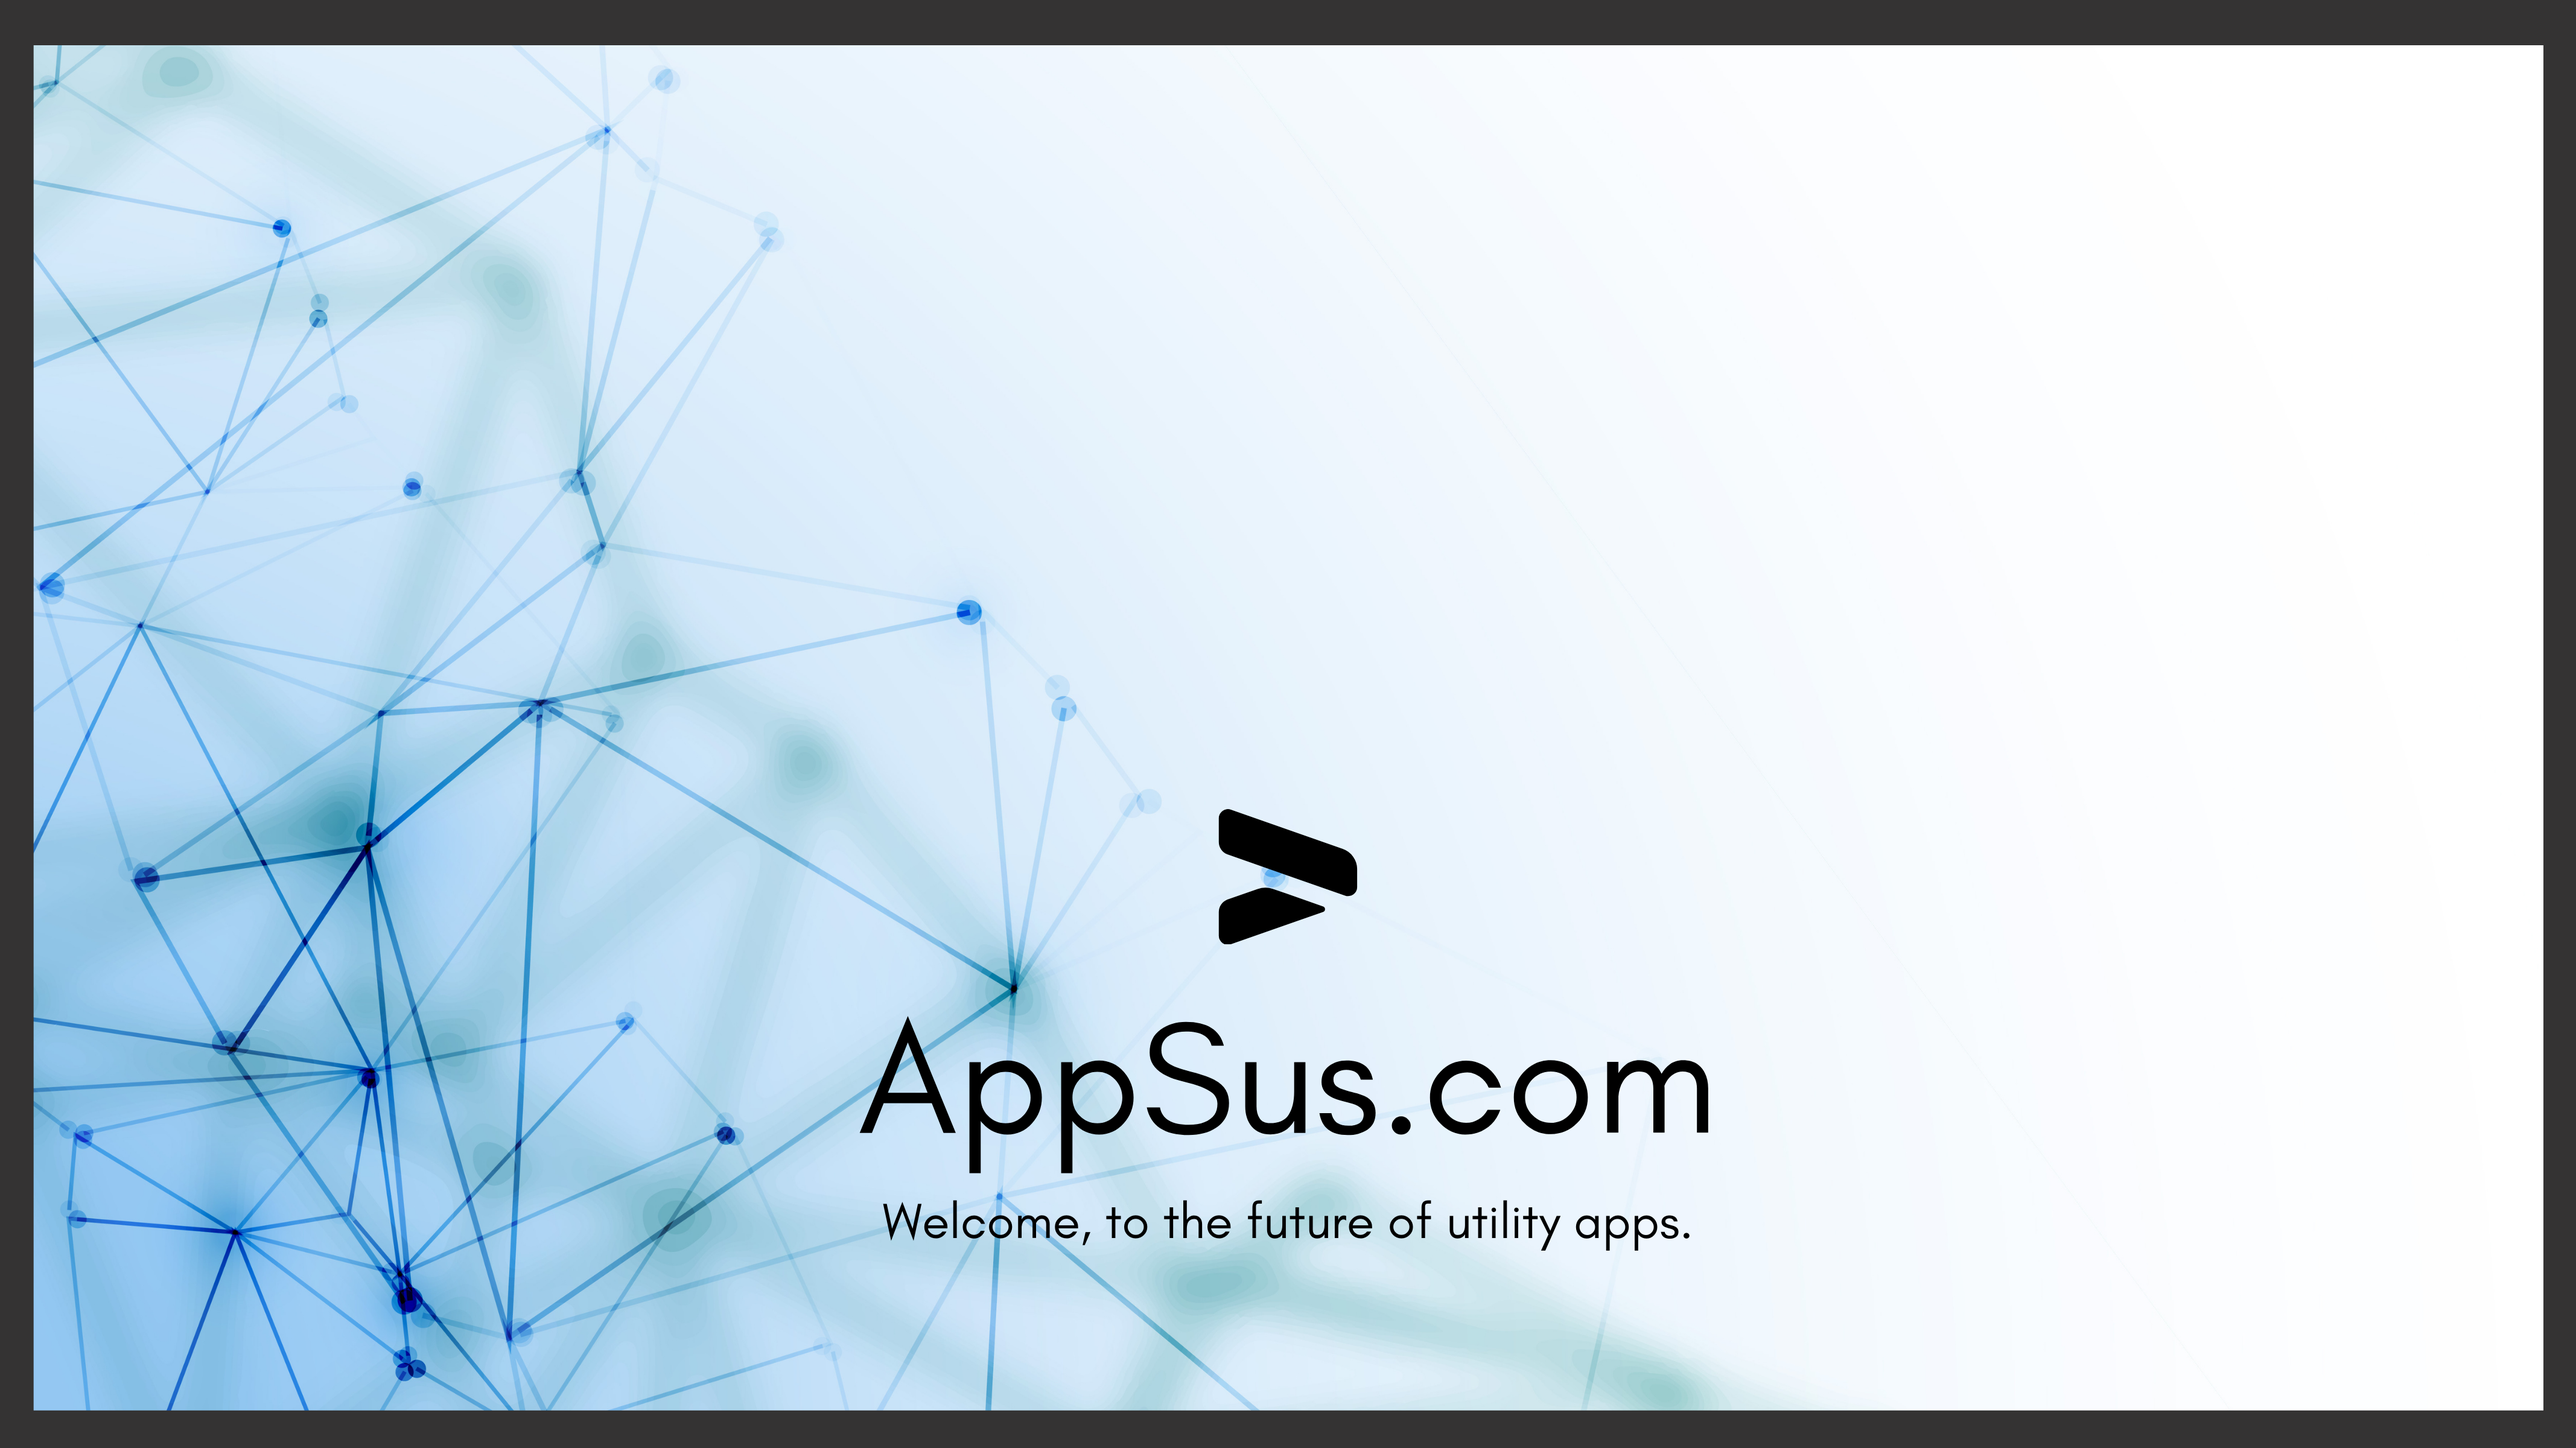
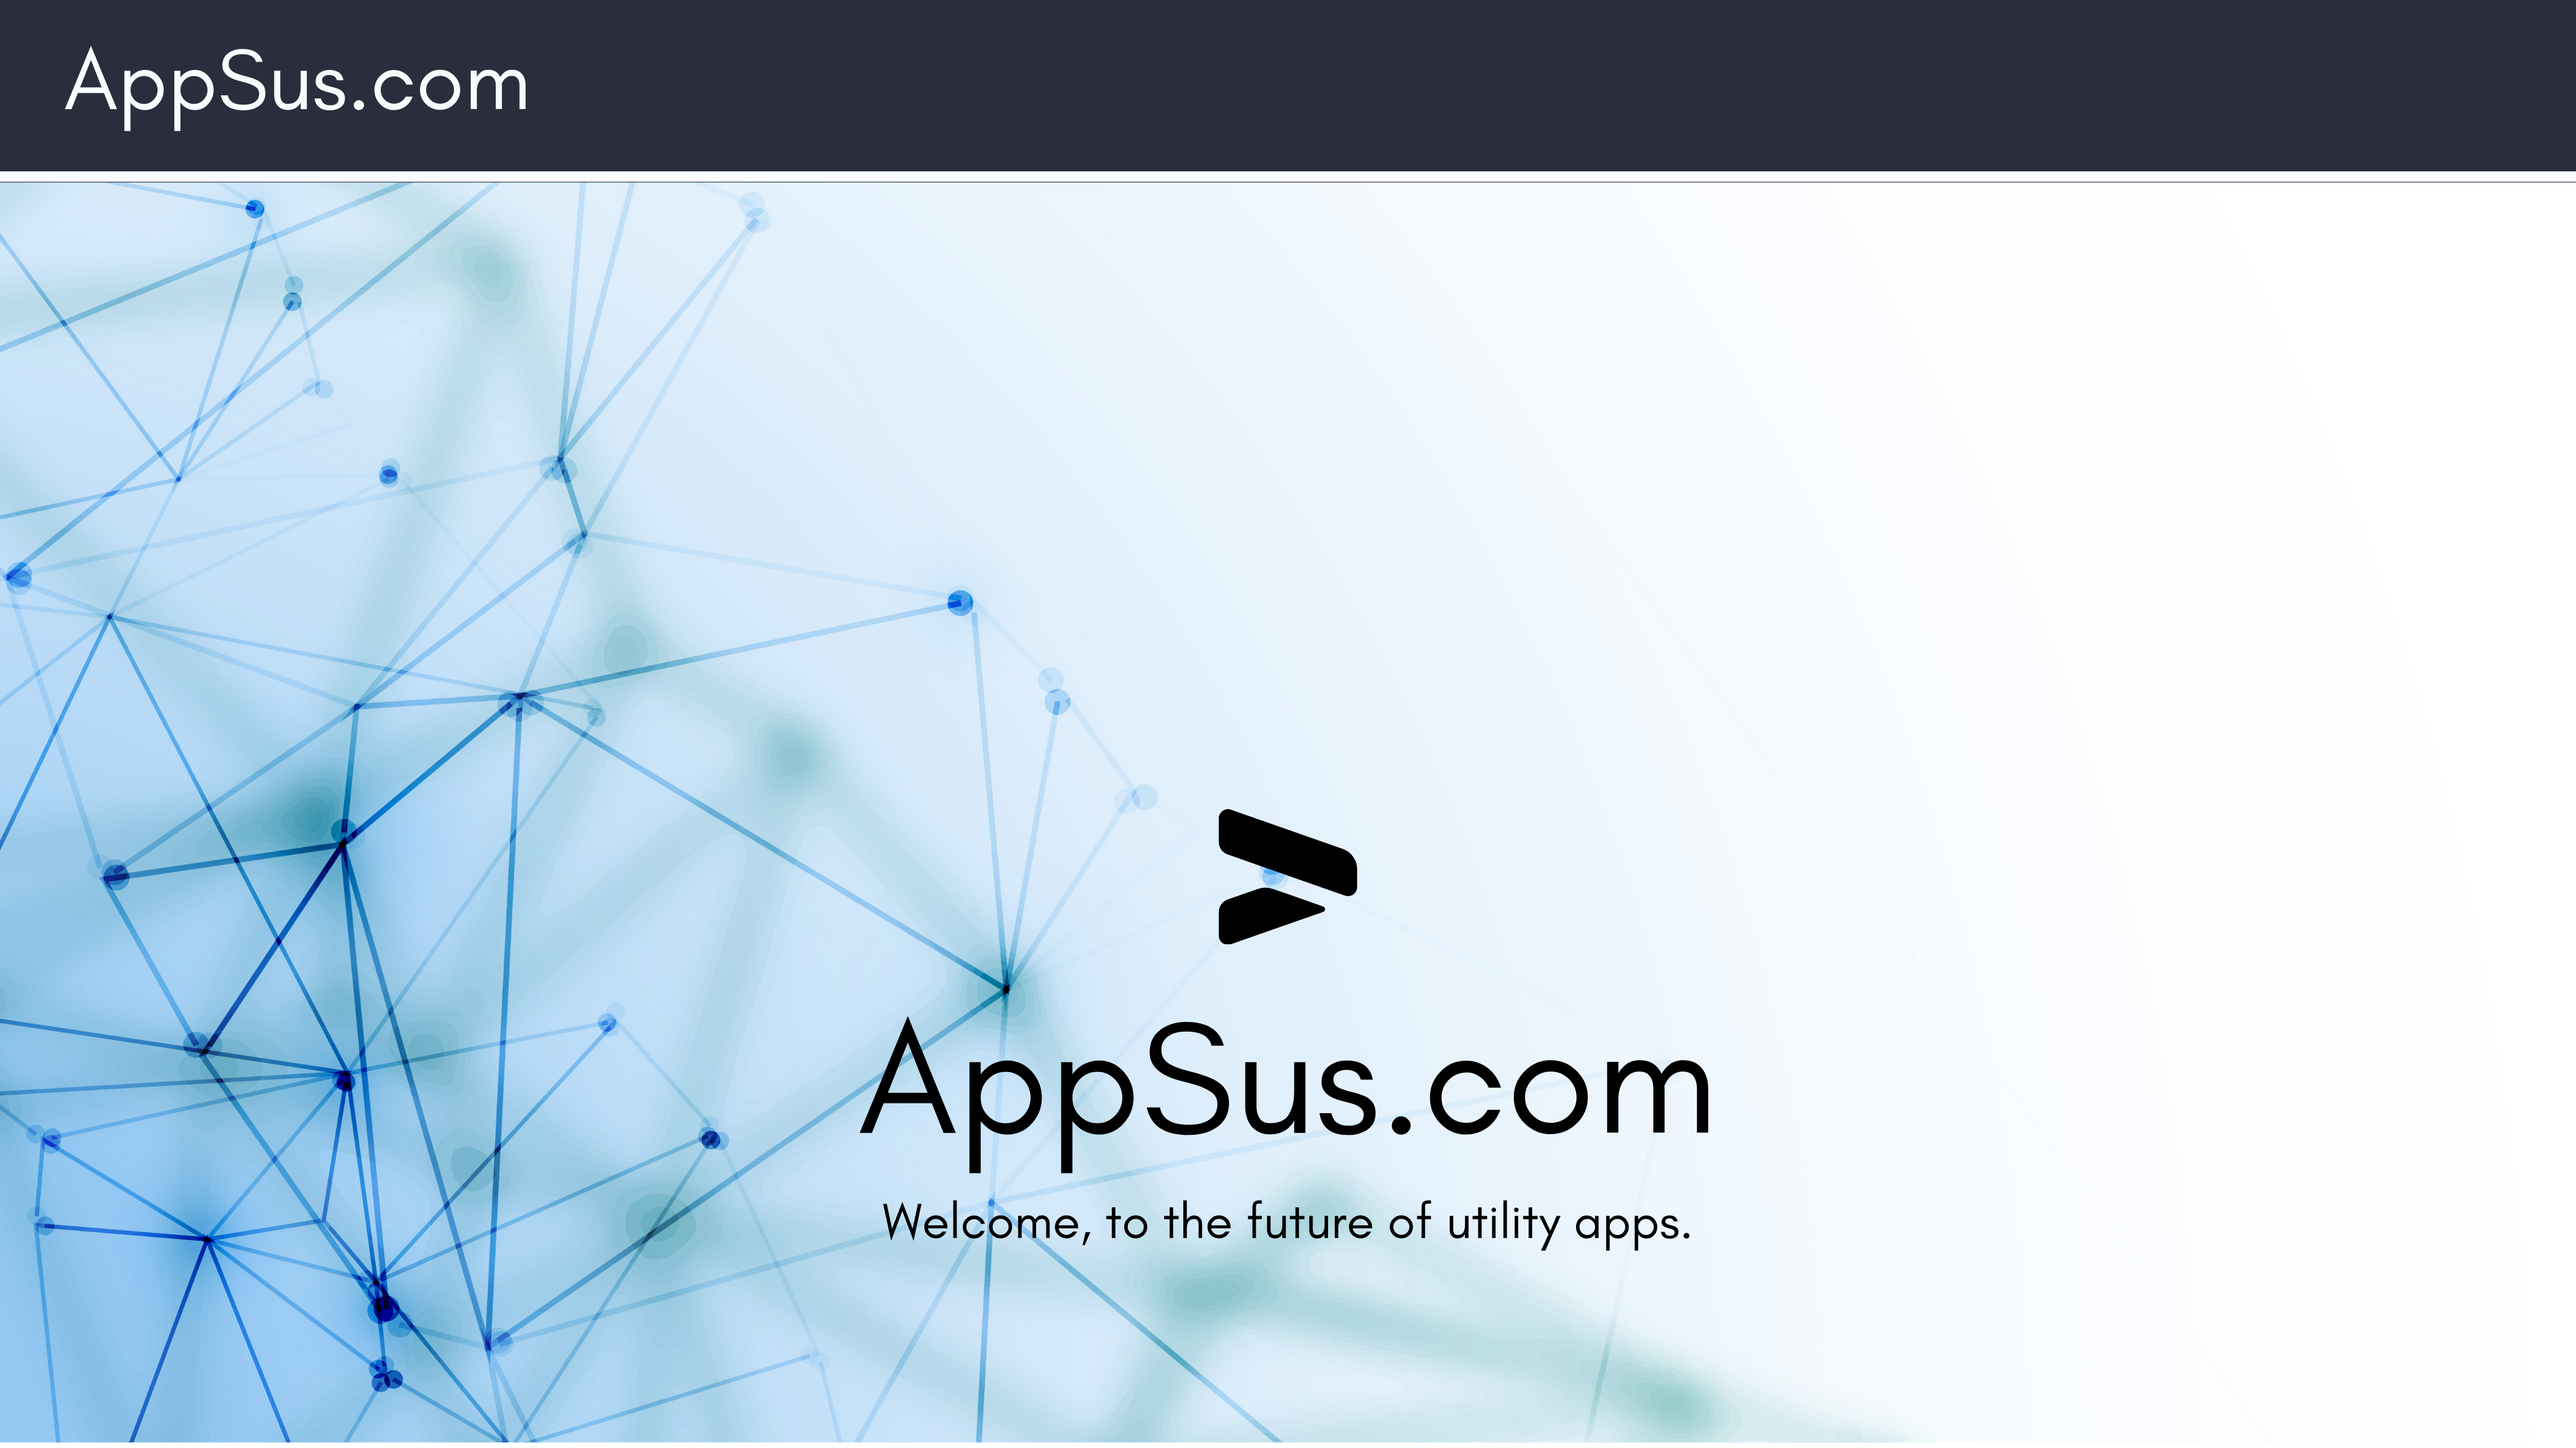
Home page fix

diff --git a/assets/css/apps/mail/cmps/MailMq.css b/assets/css/apps/mail/cmps/MailMq.css
@@ -379,7 +379,6 @@
     /* home */
     html .home-page {
         scroll-behavior: smooth;
-        /* height: 100vh; */
         height: 50vh;
         background-color: #cfcfcf;
     }
@@ -387,32 +386,29 @@
     .home-page .footer-img {
         display: none;
     }
-    
+
     .home-page img {
-        width: 100%;
-        height: 100%;
+        object-fit: fill;
     }
 
-    /* .home-page > img {
-        display: none;
-    }; */
-    
     .home-page .app-header-btn {
         position: absolute;
         right: 1em;
-        top: 1em;
+        top: 0.7em;
         margin-inline-start: 10em;
         font-size: 1em;
+        color: #cfcfcf;
     }
 
     .home-page .nav-btns {
         top: 2.5em;
-        right: 1em;
-    } 
+        right: 0em;
+    }
+
     .home-page .nav-btns img {
         max-width: 2em;
     }
-    
+
     .home-page .hp-links>img {
         margin-block-start: 1em;
         margin-inline-start: 1em;
@@ -420,28 +416,32 @@
         height: auto;
         cursor: pointer;
     }
-    
+
     .home-page .hp-links {
         display: flex;
         position: absolute;
         right: 3em;
-        top: 2em;
+        top: 2.5em;
         margin-inline-start: 3.5em;
         margin-block-start: 1em;
     }
-    
+
     .home-page .hp-link {
         max-width: 13vw;
         background: transparent;
         border: none;
         cursor: pointer;
     }
-    
+
     .home-page .hp-link:hover {
         border-radius: 0.5em;
         background-color: var(--gm-hover-link);
     }
-    
+
+    .app-header-btn:hover {
+        background-color: #ffffff19;
+    }
+
 }
 
 /* medium */
@@ -598,12 +598,12 @@
         cursor: pointer;
         border-top: 0.5px solid rgba(0, 0, 0, 0.2);
     }
-    
+
     .mail-list li:last-of-type {
         border-bottom: 0.5px solid rgba(0, 0, 0, 0.2);
-    
+
     }
-    
+
     .mail-preview:hover {
         box-shadow: 0px 2px 12px hsl(240deg 7% 62% / 43%);
     }
@@ -958,20 +958,30 @@
         scroll-behavior: smooth;
         background-color: #343333;
     }
-    
+
     .home-page img {
         width: 100%;
         height: 100%;
     }
-    
+
     .home-page .app-header-btn {
         position: absolute;
-        right: 2em;
-        top: 2em;
+        right: 1em;
+        top: 0.4em;
         margin-inline-start: 10em;
-        font-size: 2em;
+        font-size: 1.5em;
+        color: #cfcfcf;
     }
-    
+
+    .home-page .nav-btns {
+        top: 4em;
+        right: 0.5em;
+    }
+
+    .app-header-btn:hover {
+        background-color: #ffffff19;
+    }
+
     .home-page .hp-links>img {
         margin-block-start: 1em;
         margin-inline-start: 1em;
@@ -979,32 +989,28 @@
         height: auto;
         cursor: pointer;
     }
-    
+
     .home-page .hp-links {
         display: flex;
         position: absolute;
         right: 6em;
-        top: 6em;
+        top: 4em;
         margin-inline-start: 3.5em;
         margin-block-start: 1em;
     }
-    
+
     .home-page .hp-link {
         max-width: 10vw;
         background: transparent;
         border: none;
         cursor: pointer;
     }
-    
+
     .home-page .hp-link:hover {
         border-radius: 0.5em;
         background-color: var(--gm-hover-link);
     }
-    
-    .home-page .nav-btns {
-        top: 7em;
-        right: 2em;
-    }     
+
 }
 
 
@@ -1042,4 +1048,63 @@
         margin-inline-start: 0.5em;
     }
 
+
+    /* home */
+
+    .home-page {
+        scroll-behavior: smooth;
+        background-color: #343333;
+    }
+
+    .home-page img {
+        width: 100%;
+        height: 100%;
+    }
+
+    .home-page .app-header-btn {
+        position: absolute;
+        right: 1em;
+        top: 0.7em;
+        margin-inline-start: 10em;
+        font-size: 2em;
+        color: #cfcfcf;
+    }
+
+    .home-page .hp-links>img {
+        margin-block-start: 1em;
+        margin-inline-start: 1em;
+        max-width: 250px;
+        height: auto;
+        cursor: pointer;
+    }
+
+    .home-page .hp-links {
+        display: flex;
+        position: absolute;
+        right: 6em;
+        top: 6em;
+        margin-inline-start: 3.5em;
+        margin-block-start: 1em;
+    }
+
+    .home-page .hp-link {
+        max-width: 10vw;
+        background: transparent;
+        border: none;
+        cursor: pointer;
+    }
+
+    .home-page .hp-link:hover {
+        border-radius: 0.5em;
+        background-color: var(--gm-hover-link);
+    }
+
+    .home-page .nav-btns {
+        top: 5em;
+        right: 0.5em;
+    }
+
+    .app-header-btn:hover {
+        background-color: #ffffff19;
+    }
 }

diff --git a/assets/css/cmps/AppHeader.css b/assets/css/cmps/AppHeader.css
@@ -12,11 +12,6 @@
     padding: 0;
 }
 
-
-.app-header-btn:hover {
-    background-color: var(--gm-hover-link);
-}
-
 .nav-btns {
     display: flex;
     flex-direction: column;

diff --git a/assets/css/apps/mail/cmps/MailPreview.css b/assets/css/apps/mail/cmps/MailPreview.css
@@ -1,4 +1,3 @@
 .mail-preview.unread>span:not(.body, .from-draft) {
     font-weight: 600;
 }
-
